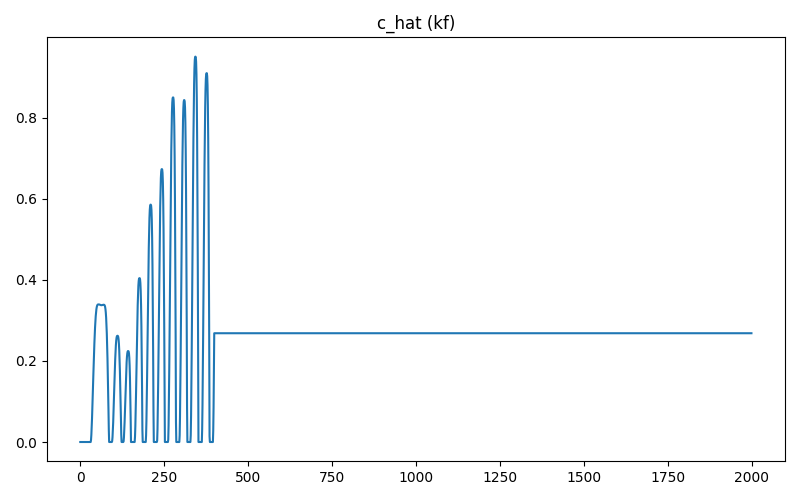
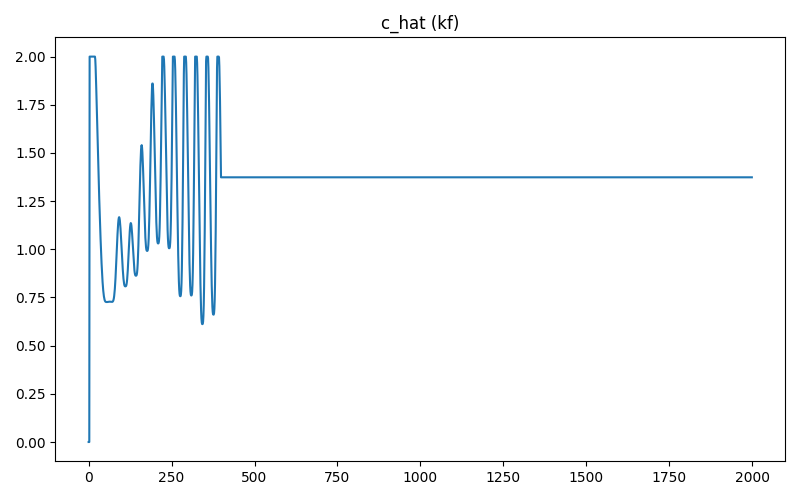
Fix Phase 1.6 Step A identifiability

diff --git a/phase1/phase1_6.py b/phase1/phase1_6.py
@@ -51,12 +51,15 @@ def simulate_oracle_id(seed=0):
     x, v = 0.0, 0.0
     u_buffer = [0.0 for _ in range(DELAY_STEPS + 1)]
 
-    theta = np.zeros(2)  # [b, c]
-    P = np.eye(2) * 10.0
+    # single-parameter RLS for c
+    theta = np.zeros(1)
+    P = np.eye(1) * 10.0
 
     id_len = int(ID_FRAC * STEPS)
     c_hat_trace = []
     err_trace = []
+    y_trace = []
+    phi_trace = []
 
     for t in range(STEPS):
         # ID segment target
@@ -78,20 +81,26 @@ def simulate_oracle_id(seed=0):
         x = x + v * DT
 
         if t < id_len:
-            y = MASS * a_true - u_applied
-            phi = np.array([0.0, v * abs(v)])  # b locked to 0
+            # Option A: y = u_applied - m*a_true = c*v|v| - b (b=0)
+            y = u_applied - MASS * a_true
+            phi = np.array([v * abs(v)])
             theta, P, err = rls_update(theta, P, phi, y)
-            c_hat = float(np.clip(theta[1], 0.0, C_MAX))
-            theta[1] = c_hat
+            c_hat = float(np.clip(theta[0], 0.0, C_MAX))
+            theta[0] = c_hat
             c_hat_trace.append(c_hat)
             err_trace.append(abs(err))
+            y_trace.append(float(y))
+            phi_trace.append(float(phi[0]))
 
     c_true = QUAD_DRAG_BASE * DRAG_MULT
     c_relerr = abs(c_hat_trace[-1] - c_true) / max(1e-6, c_true)
     r2 = np.nan
-    if len(err_trace) > 5:
-        # proxy: decreasing residual trend
-        r2 = float(1.0 - np.var(err_trace[-50:]) / max(1e-6, np.var(err_trace)))
+    if len(y_trace) > 5:
+        y_arr = np.array(y_trace)
+        y_pred = np.array(phi_trace) * c_hat_trace[-1]
+        ss_res = np.sum((y_arr - y_pred) ** 2)
+        ss_tot = np.sum((y_arr - np.mean(y_arr)) ** 2)
+        r2 = float(1.0 - ss_res / ss_tot) if ss_tot > 0 else float("nan")
 
     return c_hat_trace, err_trace, c_relerr, r2
 
@@ -159,14 +168,14 @@ def simulate_kf_and_adapt(seed=0):
         a_kf = X[2]
 
         if t < id_len:
-            # estimate c only
-            y = MASS * a_kf - u_applied
+            # estimate c only (Option A)
+            y = u_applied - MASS * a_kf
             phi = np.array([0.0, v * abs(v)])
             theta, Prls, _ = rls_update(theta, Prls, phi, y)
             theta[1] = float(np.clip(theta[1], 0.0, C_MAX))
         else:
-            # estimate b only with c frozen
-            y = MASS * a_kf - u_applied
+            # estimate b only with c frozen (Option A)
+            y = u_applied - MASS * a_kf
             phi = np.array([1.0, 0.0])
             theta, Prls, _ = rls_update(theta, Prls, phi, y)
             theta[0] = float(np.clip(theta[0], -B_MAX, B_MAX))
@@ -200,12 +209,27 @@ def simulate_kf_and_adapt(seed=0):
 
 
 if __name__ == "__main__":
+    # Offline unit test (no delay/no noise, b=0)
+    c_true = QUAD_DRAG_BASE * DRAG_MULT
+    v_vals = np.linspace(-2, 2, 200)
+    a_true = np.zeros_like(v_vals)
+    u_vals = c_true * v_vals * np.abs(v_vals) + MASS * a_true
+    y = u_vals - MASS * a_true
+    phi = v_vals * np.abs(v_vals)
+    c_hat = np.sum(phi * y) / max(1e-6, np.sum(phi * phi))
+    c_relerr_unit = abs(c_hat - c_true) / max(1e-6, c_true)
+
+    with open(os.path.join(RESULTS_DIR, "offline_unit_test.txt"), "w") as f:
+        f.write(f"c_true={c_true:.4f}\n")
+        f.write(f"c_hat={c_hat:.4f}\n")
+        f.write(f"c_relerr={c_relerr_unit:.4f}\n")
+
     # Step A
     c_hat_trace, err_trace, c_relerr, r2 = simulate_oracle_id()
     with open(os.path.join(RESULTS_DIR, "oracle_id_report.md"), "w") as f:
         f.write("# Step A – Oracle Identifiability\n\n")
         f.write(f"c_relerr: {c_relerr:.4f}\n\n")
-        f.write(f"R2 proxy: {r2:.4f}\n")
+        f.write(f"R2: {r2:.4f}\n")
 
     plt.figure(figsize=(8,5))
     plt.plot(c_hat_trace)

diff --git a/phase1/results/kf_estimation_report.md b/phase1/results/kf_estimation_report.md
@@ -1,5 +1,5 @@
 # Step B – KF Estimation + Adaptation
 
-c_relerr: 0.7764
+c_relerr: 0.1447
 
-corr(b_hat,b_true): 0.8355
+corr(b_hat,b_true): -0.8355

diff --git a/phase1/results/oracle_id_report.md b/phase1/results/oracle_id_report.md
@@ -1,5 +1,5 @@
 # Step A – Oracle Identifiability
 
-c_relerr: 1.0000
+c_relerr: 0.2996
 
-R2 proxy: 0.8699
+R2: 0.9746
